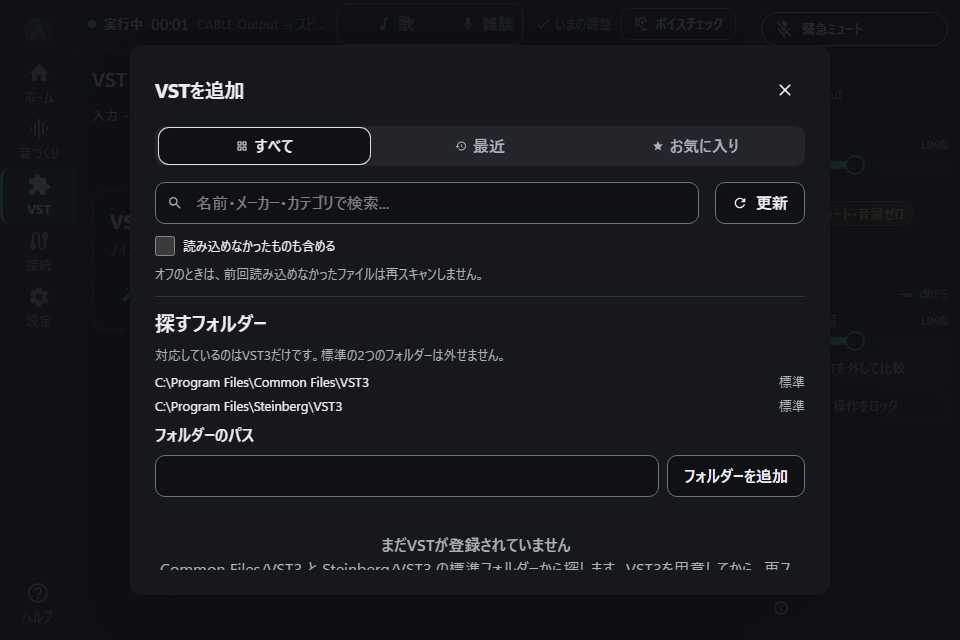
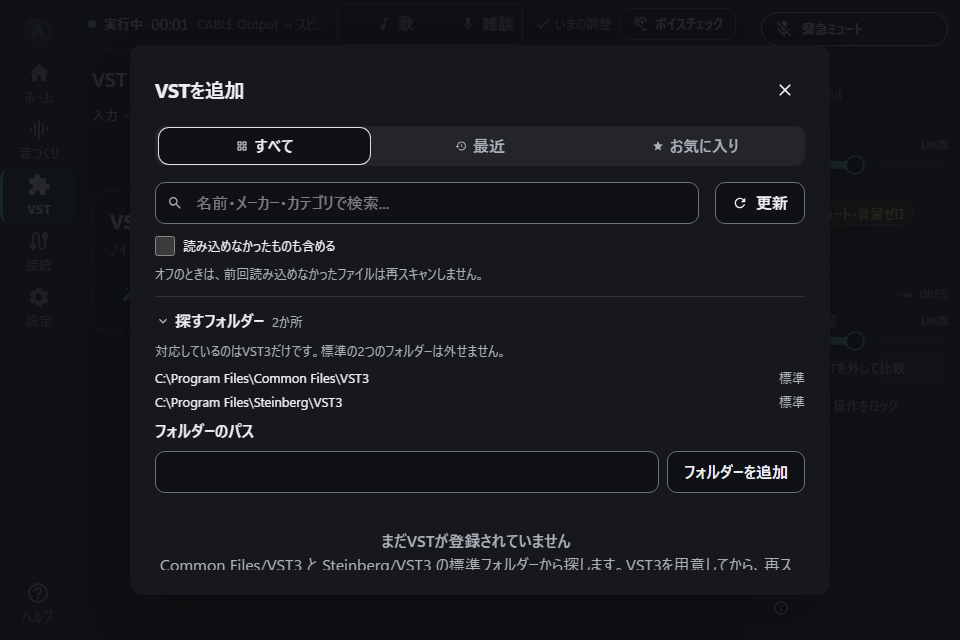
fix: 探すフォルダーはふだん閉じ、見つからないフォルダーがあるときだけ開く (#557)
VSTを追加の画面で、探すフォルダーの区画がVSTの一覧を押し下げていたため。

diff --git a/src/components/features/PluginBrowser/ScanFolders.tsx b/src/components/features/PluginBrowser/ScanFolders.tsx
@@ -66,8 +66,15 @@ export function ScanFolders({ disabled, skippedRoots = [], onChanged }: {
         commit(removeExtraScanFolder(folders, path));
     };
 
-    return <section aria-labelledby={headingId} className="mb-3 space-y-2 border-t border-border pt-3">
-        <h3 id={headingId} className="text-ui-heading font-semibold">{t('pluginBrowser.scanFolders')}</h3>
+    // 一覧から VST を選ぶ場所なので、ふだんは閉じておく。追加したフォルダーが見つからないときだけ開いて理由を見せる。
+    const hasIssue = folders.some(path => skippedRoots.some(item => scanFolderKey(item.path) === scanFolderKey(path)));
+    return <section aria-labelledby={headingId} className="mb-3 border-t border-border pt-3">
+        <details open={hasIssue || undefined} className="group">
+        <summary className="cursor-pointer">
+            <h3 id={headingId} className="inline text-ui-control font-semibold">{t('pluginBrowser.scanFolders')}</h3>
+            <span className="ml-2 text-ui-support text-muted-foreground">{t('pluginBrowser.scanFolderCount', { count: STANDARD_VST_SCAN_FOLDERS.length + folders.length })}</span>
+        </summary>
+        <div className="mt-2 space-y-2">
         <p className="text-ui-support text-muted-foreground">{t('pluginBrowser.scanFoldersHint')}</p>
         <ul className="max-h-28 space-y-1 overflow-y-auto">
             {STANDARD_VST_SCAN_FOLDERS.map(path => <li key={path} className="flex items-center justify-between gap-2 text-ui-support">
@@ -98,5 +105,7 @@ export function ScanFolders({ disabled, skippedRoots = [], onChanged }: {
             </div>
             <Button type="submit" variant="outline" className="h-auto min-h-10 whitespace-normal" disabled={disabled}>{t('pluginBrowser.scanFolderAdd')}</Button>
         </form>
+        </div>
+        </details>
     </section>;
 }

diff --git a/src/components/features/PluginBrowser/__tests__/ScanFolders.test.tsx b/src/components/features/PluginBrowser/__tests__/ScanFolders.test.tsx
@@ -55,3 +55,17 @@ it('壊れた保存でも探すフォルダーの区画を出す', () => {
     expect(screen.getByRole('region', { name: '探すフォルダー' })).toBeInTheDocument();
     expect(screen.getByRole('heading', { name: 'まだVSTが登録されていません' })).toBeInTheDocument();
 });
+
+it('探すフォルダーはふだん閉じ、追加したフォルダーが見つからないときだけ開く', () => {
+    localStorage.setItem(VST_SCAN_FOLDERS_KEY, JSON.stringify(['D:\Custom\VST3']));
+    const view = render(<PluginBrowserModal isOpen onClose={vi.fn()} plugins={[room]} isLoading={false} onScan={vi.fn()} onPluginSelect={vi.fn()} />);
+    // VST の一覧を先に見せる。区画は数だけを出して閉じておく。
+    const closed = screen.getByRole('region', { name: '探すフォルダー' }).querySelector('details')!;
+    expect(closed).not.toHaveAttribute('open');
+    expect(screen.getByText('3か所')).toBeInTheDocument();
+    view.unmount();
+    render(<PluginBrowserModal isOpen onClose={vi.fn()} plugins={[room]} isLoading={false} onScan={vi.fn()} onPluginSelect={vi.fn()}
+        skippedRoots={[{ path: 'D:\Custom\VST3', reason: 'missing' }]} />);
+    expect(screen.getByRole('region', { name: '探すフォルダー' }).querySelector('details')).toHaveAttribute('open');
+    expect(screen.getByText('見つかりません')).toBeVisible();
+});

diff --git a/src/i18n/messages.ts b/src/i18n/messages.ts
@@ -3191,6 +3191,7 @@ const ja = {
     "pluginBrowser.fullScan": "すべて再スキャン",
     "pluginBrowser.scanFolders": "探すフォルダー",
     "pluginBrowser.scanFoldersHint": "対応しているのはVST3だけです。標準の2つのフォルダーは外せません。",
+    "pluginBrowser.scanFolderCount": "{count}か所",
     "pluginBrowser.scanFolderStandard": "標準",
     "pluginBrowser.scanFolderPath": "フォルダーのパス",
     "pluginBrowser.scanFolderAdd": "フォルダーを追加",
@@ -6688,6 +6689,7 @@ const en: Record<MessageKey, string> = {
     "pluginBrowser.fullScan": "Rescan all",
     "pluginBrowser.scanFolders": "Folders to search",
     "pluginBrowser.scanFoldersHint": "Only VST3 plugins are supported. The two standard folders cannot be removed.",
+    "pluginBrowser.scanFolderCount": "{count} folders",
     "pluginBrowser.scanFolderStandard": "Standard",
     "pluginBrowser.scanFolderPath": "Folder path",
     "pluginBrowser.scanFolderAdd": "Add folder",

diff --git a/e2e/browser/user-eval-6-shots.spec.ts b/e2e/browser/user-eval-6-shots.spec.ts
@@ -39,12 +39,16 @@ test.describe('段階6の画面記録', () => {
     });
 
     test('folders-en-1024x768', async ({ page }) => {
-        await openApp(page, 'en', 1024, 768, null, false);
+        const dialog = await openApp(page, 'en', 1024, 768, null, false);
+        // 閉じた区画を開いた状態も撮る。
+        await dialog.getByRole('region', { name: 'Folders to search' }).locator('summary').click();
         await page.screenshot({ path: `${dir}/folders-en-1024x768.png`, animations: 'disabled' });
     });
 
     test('folders-ja-960x640', async ({ page }) => {
-        await openApp(page, 'ja', 960, 640, null, false);
+        const dialog = await openApp(page, 'ja', 960, 640, null, false);
+        // 閉じた区画を開いた状態も撮る。
+        await dialog.getByRole('region', { name: '探すフォルダー' }).locator('summary').click();
         await page.screenshot({ path: `${dir}/folders-ja-960x640.png`, animations: 'disabled' });
     });
 

diff --git a/user-docs/en/sound.md b/user-docs/en/sound.md
@@ -20,7 +20,7 @@ uiLabels: ["Settings", "Sound", "Basics", "Noise reduction", "Shape voice", "Com
 ## VST {#vst}
 
 1. Open the VST page from the rail, or from “Open VST” or “Add” on Home, and choose an effect to add. When none are loaded, the home control is “Add”.
-2. In “Add VST”, use “Folders to search” to include places other than the standard folders. The two standard folders cannot be removed. Only VST3 plugins are supported. Added folders remain the next time you open the app. A folder that cannot be found is listed without stopping the scan.
+2. In “Add VST”, open “Folders to search” to include places other than the standard folders. The two standard folders cannot be removed. Only VST3 plugins are supported. Added folders remain the next time you open the app. A folder that cannot be found is listed without stopping the scan.
 3. Adjust values in each VST's editor.
 4. Use “Compare without VST” to listen with and without external VST effects.
 
